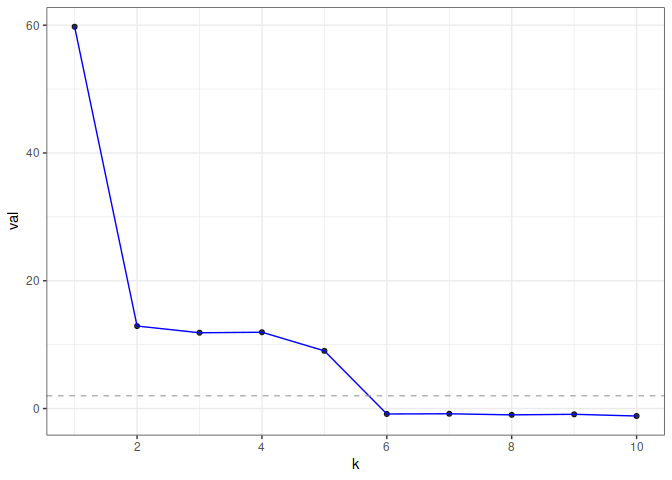
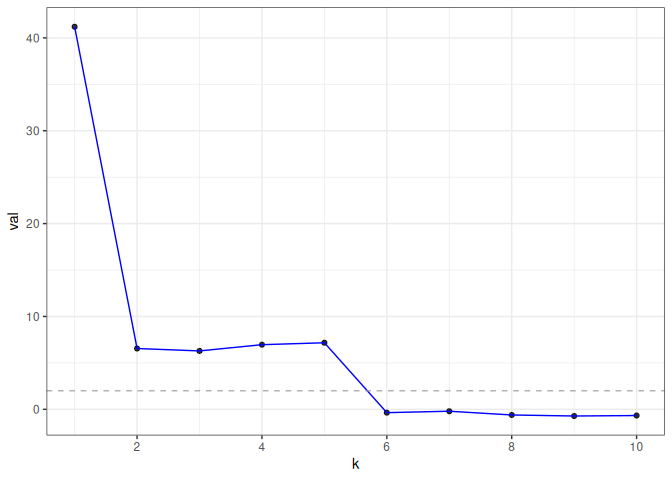
Update README

diff --git a/README.md b/README.md
@@ -49,7 +49,6 @@ diag(B) <- 0.3
 
 model <- sbm(
   n = 1000,
-  k = 5,
   B = B,
   expected_degree = 40,
   poisson_edges = FALSE,
@@ -80,16 +79,16 @@ eigcv_result
 #> 
 #>  ------------ Summary of Tests ------------
 #>   k          z        pvals         padj
-#>   1 59.7488180 2.220446e-16 2.220446e-15
-#>   2 12.9094629 2.220446e-16 2.220446e-15
-#>   3 11.8600427 2.220446e-16 2.220446e-15
-#>   4 11.9412340 2.220446e-16 2.220446e-15
-#>   5  9.0252520 2.220446e-16 2.220446e-15
-#>   6 -0.8512008 8.026711e-01 1.000000e+00
-#>   7 -0.8182195 7.933841e-01 1.000000e+00
-#>   8 -0.9912649 8.392219e-01 1.000000e+00
-#>   9 -0.9005808 8.160944e-01 1.000000e+00
-#>  10 -1.1677953 8.785553e-01 1.000000e+00
+#>   1 41.1972023 0.000000e+00 0.000000e+00
+#>   2  6.5483842 2.908147e-11 2.908147e-11
+#>   3  6.2885741 1.601976e-10 1.601976e-10
+#>   4  6.9601015 1.700138e-12 1.700138e-12
+#>   5  7.1673010 3.824537e-13 3.824537e-13
+#>   6 -0.3594110 6.403562e-01 6.403562e-01
+#>   7 -0.2062852 5.817159e-01 5.817159e-01
+#>   8 -0.6096004 7.289367e-01 7.289367e-01
+#>   9 -0.7202233 7.643062e-01 7.643062e-01
+#>  10 -0.6707828 7.488205e-01 7.488205e-01
 ```
 
 In this example, `eigcv()` suggests `k=5`.

diff --git a/cran-comments.md b/cran-comments.md
@@ -1,7 +1,1 @@
-This is resubmission to fix some typos in the DESCRIPTION, also adding a reference to the DESCRIPTION, as per CRAN's requests.
-
-## R CMD check results
-
-0 errors | 0 warnings | 1 notes
-
-* This is a new release.
+This patch release is for compatilibity with fastRG 0.4.0
